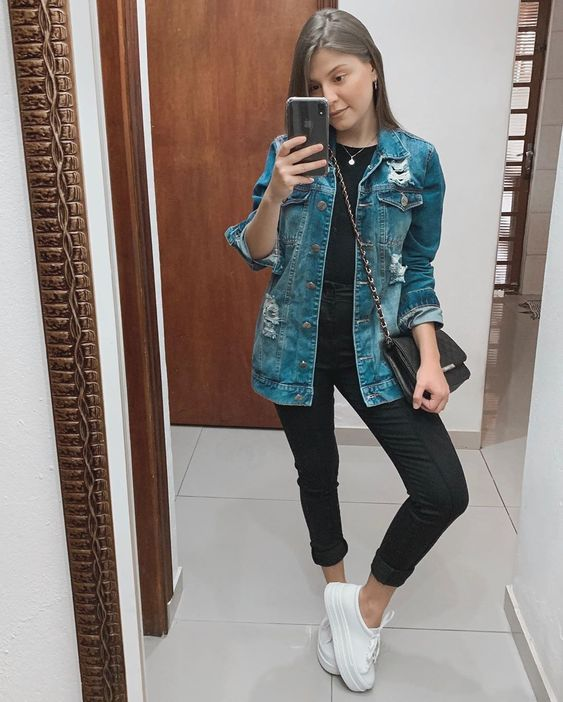
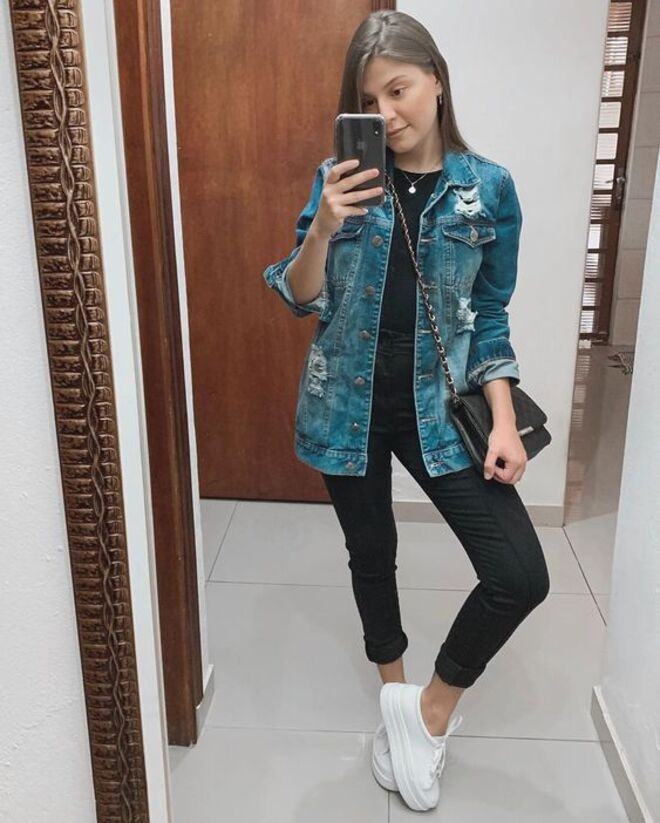
rezise the images to olinda

diff --git a/projects/flexbox-business-site-starting/index.html b/projects/flexbox-business-site-starting/index.html
@@ -26,16 +26,19 @@
       </article>
       <article id="looks">
         <h1>Looks</h1>
-        <div class='imgs'>
-          <img src="img/jaqueta-1.jpg">
-          <!-- <img src="img/jaqueta-2.jpg">
-          <img src="img/jaqueta-3.jpg">
-          <img src="img/bengaline-1.jpg">
-          <img src="img/bengaline-2.jpg">
-          <img src="img/bengaline-3.jpg">
-          <img src="img/jaqueta-1.jpg">
-          <img src="img/jaqueta-2.jpg">
-          <img src="img/jaqueta-3.jpg"> -->
+        <div class='cards-component'>
+          <div class='card'>
+            <img src="img/jeans-1.jpg">
+          </div>
+          
+          <div class="card"><img src="img/jeans-2.jpg"></div>
+          <div class="card"><img src="img/jeans-3.jpg"></div>
+          <div class="card"><img src="img/bengaline-1.jpg"></div>
+          <div class="card"><img src="img/bengaline-2.jpg"></div>
+          <div class="card"><img src="img/bengaline-3.jpg"></div>
+          <div class="card"><img src="img/jaqueta-1.jpg"></div>
+          <div class="card"><img src="img/jaqueta-2.jpg"></div>
+          <div class="card"><img src="img/jaqueta-3.jpg"></div>
         </div>
       </article>
     </main>

diff --git a/projects/flexbox-business-site-starting/styles.css b/projects/flexbox-business-site-starting/styles.css
@@ -53,9 +53,22 @@ header {
 }
 
 #looks {
-    height: 800px;
+    margin: 0 auto;
 }
 
-.jaqueta {
-    width: 1%;
+.cards-component {
+    display: flex;
+    justify-content: space-around;
+    flex-wrap: wrap;
+}
+
+.card {
+    margin-top: 10px;
+    border: 1px solid black;
+    flex: 0 1 15%;
+}
+
+.card img {
+    max-width: 100%;
+    max-height: 100%;;
 }
